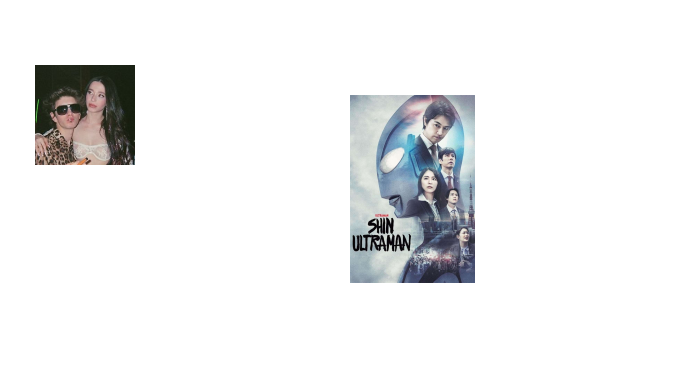
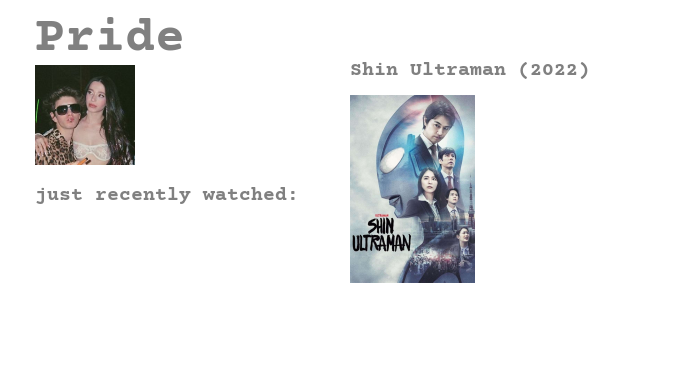
change neutral colors for themes

Changed region(s): [[0.03, 0.0293, 0.27, 0.1467], [0.06, 0.4987, 0.42, 0.5573], [0.48, 0.1467, 0.84, 0.2053]]

diff --git a/index.js b/index.js
@@ -68,15 +68,15 @@ diary.then((res) => {
         const recentTitle = titles[0] + ' (' + res.years[0] + ')';
 
         ctx.font = 'bold 50px Courier';
-        ctx.fillStyle = 'white';
+        ctx.fillStyle = '#808080';
         ctx.fillText(username, 35, 50);
 
         ctx.font = 'bold 20px Courier';
-        ctx.fillStyle = 'white';
+        ctx.fillStyle = '#808080';
         ctx.fillText('just recently watched: ', 35, 200);
 
         ctx.font = 'bold 20px Courier';
-        ctx.fillStyle = 'white';
+        ctx.fillStyle = '#808080';
 
         let wrappedDegree = 0;
 
